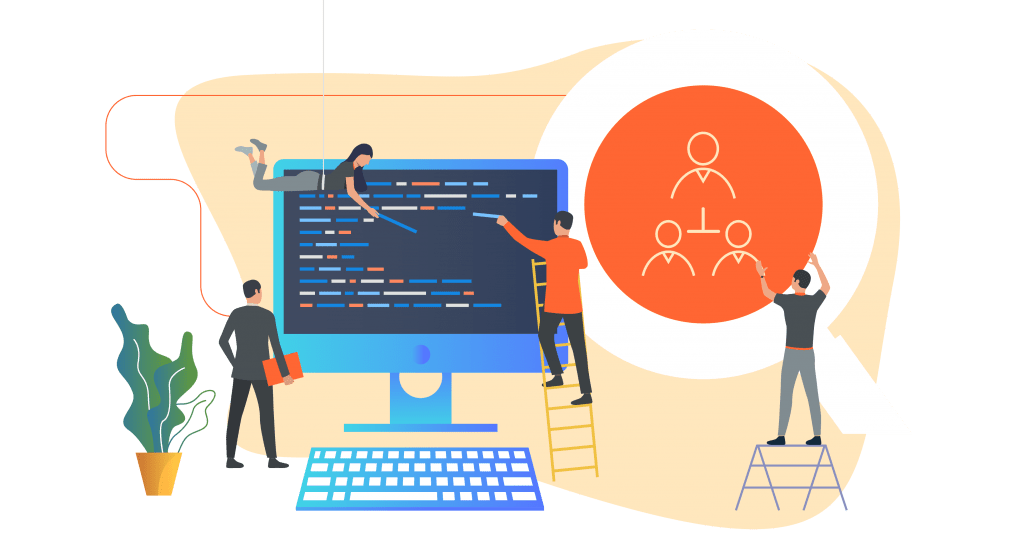
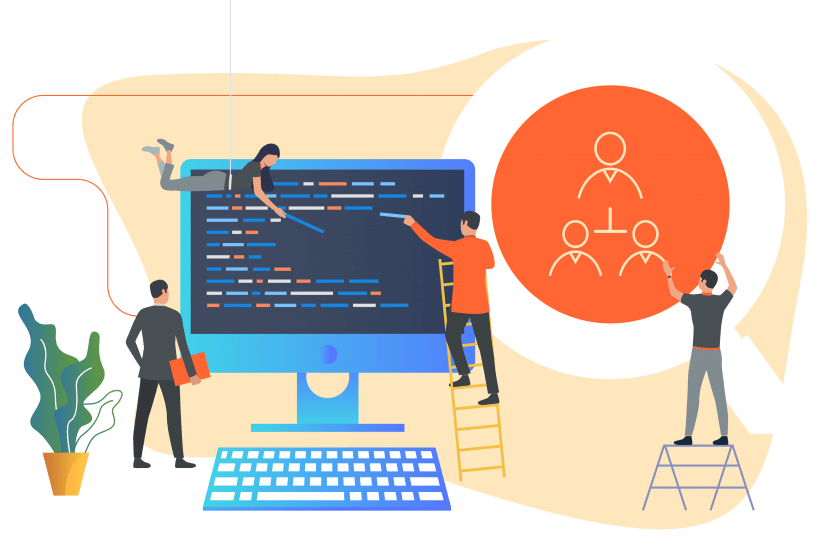
carrossel dos textos principais feito junto com a edição da imagem para ela ficar menor

Changed region(s): [[0.0, 0.062, 1.0, 0.9927], [0.4896, 0.1241, 0.5202, 0.1551]]

diff --git a/index.html b/index.html
@@ -38,7 +38,22 @@
     <main>
      <section class="container-central">
             <h1 class="textocentral">BEM-VINDO AO <strong>SUPORTE XD</strong></h1>
-            <p class="textocentral"><strong>Com a XD você,</strong> proporciona uma nova experiência aos seus clientes. Com a nossa plataforma inovadora você conseguirá obter os melhores resultados.</p>
+            <div class="carrossel-texto">
+                <div class="slide-texto active">
+                    <p class="textocentral"><strong>Com a XD você,</strong> proporciona uma nova experiência aos seus clientes. Com a nossa plataforma inovadora você conseguirá obter os melhores resultados.</p>
+                </div>
+                <div class="slide-texto">
+                    <p class="textocentral"><strong>Transforme o atendimento,</strong> da sua empresa com tecnologia de ponta. Oferecemos soluções inteligentes que aumentam a satisfação dos seus clientes.</p>
+                </div>
+                <div class="slide-texto">
+                    <p class="textocentral"><strong>Suporte eficiente e ágil,</strong> para seu negócio crescer. Nossa equipe especializada está pronta para levar sua empresa ao próximo nível.</p>
+                </div>
+            </div>
+            <div class="carrossel-indicadores">
+                <span class="indicador active" data-slide="0"></span>
+                <span class="indicador" data-slide="1"></span>
+                <span class="indicador" data-slide="2"></span>
+            </div>
             <img id="imagemsuporte" src="img/imagemsuporte.png">
      </section>
      <Section id="Atividades">
@@ -233,6 +248,36 @@
             window.scrollTo({
                 top: 0,
                 behavior: 'smooth'
+            });
+        });
+
+
+        let slideAtual = 0;
+        const slides = document.querySelectorAll('.slide-texto');
+        const indicadores = document.querySelectorAll('.indicador');
+        const totalSlides = slides.length;
+
+        function mostrarSlide(index){
+            slides.forEach((slide, i) => {
+                slide.classList.remove('active')
+                indicadores[i].classList.remove('active');
+            });
+
+            slides[index].classList.add('active');
+            indicadores[index].classList.add('active');
+        }
+
+        function proximoSlide(){
+            slideAtual = (slideAtual + 1) % totalSlides;
+            mostrarSlide(slideAtual);
+        }
+
+        setInterval(proximoSlide, 8000)
+
+        indicadores.forEach((indicador, index) => {
+            indicador.addEventListener('click', () => {
+                slideAtual = index;
+                mostrarSlide(slideAtual);
             });
         });
 

diff --git a/CSS/style.css b/CSS/style.css
@@ -158,11 +158,61 @@ nav ul li a:hover {
     line-height: 1.4;
 }
 
-.container-central p {
+.carrossel-texto {
+    position: relative;
+    width: 100%;
+    min-height: 200px;
+    overflow: hidden;
+}
+
+.slide-texto {
+    position: absolute;
+    top: 0;
+    left: 0;
+    width: 100%;
+    opacity: 0;
+    transform: translateX(100%);
+    transition: all 0.6s ease-in-out;
+}
+
+.slide-texto.active {
+    opacity: 1;
+    transform: translateX(0);
+    position: relative;
+}
+
+.slide-texto p {
     font-size: 40px;
     color: #555;
     line-height: 1.6;
     margin-bottom: 15px;
+}
+
+.carrossel-indicadores {
+    display: flex;
+    justify-content: center;
+    gap: 12px;
+    margin-top: 30px;
+    margin-bottom: 20px;
+}
+
+.indicador {
+    width: 12px;
+    height: 12px;
+    border-radius: 50%;
+    background-color: rgba(63, 63, 245, 0.3);
+    cursor: pointer;
+    transition: all 0.3s ease;
+}
+
+.indicador.active {
+    background-color: rgb(63, 63, 245);
+    transform: scale(1.3);
+}
+
+.indicador:hover {
+    background-color: rgb(63, 63, 245);
+    transform: scale(1.2);
 }
 
 .container-central strong {
@@ -301,9 +351,9 @@ main {
 }
 
 #imagemsuporte{
-    width: 117%;
+    width: 100%;
     position: absolute; 
-    left: 700px;         
+    left: 820px;         
     top: 8px;
 }
 
